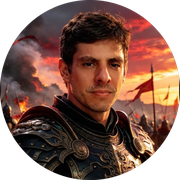
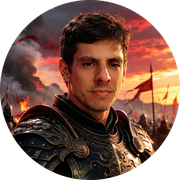
feat: imagem do cavaleiro sem marca + versao quadrada para Google e avatares

diff --git a/src/app/pages/sobre/sobre.component.html b/src/app/pages/sobre/sobre.component.html
@@ -6,7 +6,7 @@
       <div class="sobre-hero">
         <div class="avatar-wrap">
           <div class="avatar-ring"></div>
-          <img src="/assets/og-cavalheiro-wide.jpg" alt="Anselmo Polcaro" class="avatar-img"
+          <img src="/assets/og-cavalheiro-square.jpg" alt="Anselmo Polcaro" class="avatar-img"
             onerror="this.src='https://avatars.githubusercontent.com/polcaronet'" />
           <div class="avatar-status"><span class="glow-dot green"></span></div>
         </div>
@@ -119,7 +119,7 @@
             <img src="/assets/pegasus.png" alt="Pegasus — Logo das Lives" class="live-hero__pegasus" />
           </div>
           <div class="live-hero__photo-wrap">
-            <img src="/assets/og-cavalheiro-wide.jpg" alt="Anselmo Polcaro" class="live-hero__photo" />
+            <img src="/assets/og-cavalheiro-square.jpg" alt="Anselmo Polcaro" class="live-hero__photo" />
           </div>
         </div>
       </div>

diff --git a/src/index.html b/src/index.html
@@ -51,7 +51,7 @@
     "name": "Anselmo Polcaro",
     "alternateName": "polcaronet",
     "url": "https://www.polcaronet.com.br",
-    "image": "https://www.polcaronet.com.br/assets/og-cavalheiro-wide.jpg",
+    "image": "https://www.polcaronet.com.br/assets/og-cavalheiro-square.jpg",
     "jobTitle": "Streamer no TikTok",
     "description": "Streamer no TikTok @anselmopolcaro. Lives todas as noites: batalhas, humor, bate-papo e muita diversão.",
     "address": {
@@ -78,7 +78,7 @@
     "name": "Polcaronet",
     "alternateName": "Anselmo Polcaro",
     "url": "https://www.polcaronet.com.br",
-    "image": "https://www.polcaronet.com.br/assets/og-cavalheiro-wide.jpg"
+    "image": "https://www.polcaronet.com.br/assets/og-cavalheiro-square.jpg"
   }
   </script>
 

diff --git a/src/app/app.component.ts b/src/app/app.component.ts
@@ -13,7 +13,7 @@ import { Component } from '@angular/core';
         <div class="footer-avatar-row">
           <div class="footer-avatar-wrap">
             <img
-              src="/assets/og-cavalheiro-wide.jpg"
+              src="/assets/og-cavalheiro-square.jpg"
               alt="Anselmo Polcaro"
               class="footer-avatar"
               onerror="this.src='https://ui-avatars.com/api/?name=Anselmo+Polcaro&background=6c63ff&color=fff&size=80'"

diff --git a/src/app/pages/galeria/galeria.component.html b/src/app/pages/galeria/galeria.component.html
@@ -99,7 +99,7 @@
 
       <!-- Desenvolvedor -->
       <div class="dev-card">
-        <img src="/assets/og-cavalheiro-wide.jpg" alt="Anselmo Polcaro" class="dev-card__photo" />
+        <img src="/assets/og-cavalheiro-square.jpg" alt="Anselmo Polcaro" class="dev-card__photo" />
         <div class="dev-card__info">
           <span class="dev-card__label">{{ 'Desenvolvido por' | translate }}</span>
           <h3 class="dev-card__name">Anselmo Polcaro</h3>
